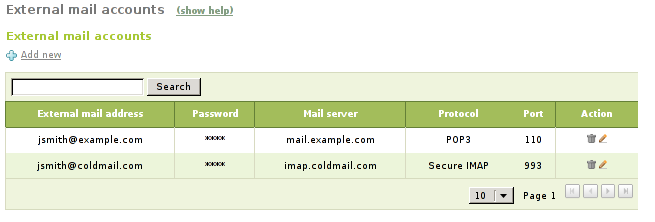
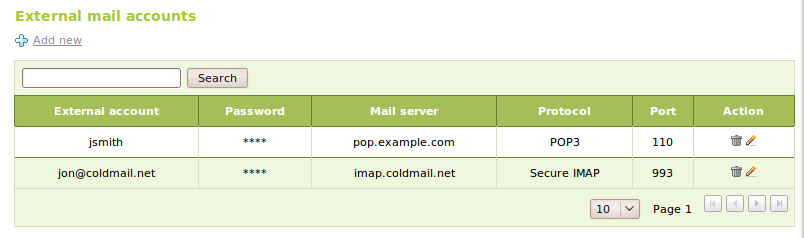
NN: updated doc and scrreeenshot with latest changes closes #1721
git-svn-id: http://svn.zentyal.org/zentyal/trunk@16659 866bc4c1-54da-0310-a958-9d5a9a0e8d04

diff --git a/docs/es/user/mail.rst b/docs/es/user/mail.rst
@@ -330,9 +330,9 @@ y hacer clic en `Recuperar correo de cuentas externas` en el menú izquierdo. En
 se muestra la lista de cuentas de correo del usuario, el usuario puede añadir, borrar y editar
 cuentas. Cada cuenta tiene los siguientes parámetros:
 
-:guilabel:`Dirección de correo externa`: 
-   La dirección de correo externa, debe ser la dirección 
-   usada para recuperar correo.
+:guilabel:`Cuenta externa`: 
+   El nombre de usuario o dirección de correo requerida para identificarse en el 
+   servicio externo de recuperación de correo.
 :guilabel:`Contraseña`: 
    Contraseña para autenticar la cuenta externa.
 :guilabel:`Servidor de correo`: 

diff --git a/docs/en/user/mail.rst b/docs/en/user/mail.rst
@@ -318,9 +318,9 @@ accounts` in the left menu. In this page a list of user's external
 accounts is shown, the user can add, edit and delete accounts. Each
 account has the following fields:
 
-:guilabel:`External mail address`: 
-   The external mail address, it must be the address used
-   to login in the retrieval services.
+:guilabel:`External account`: 
+   The username or the mail address required
+   to login in the external mail retrieval service.
 :guilabel:`Password`: 
    Password to authenticate the external account.
 :guilabel:`Mail server`: 
